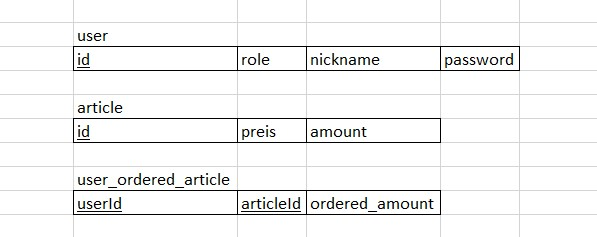
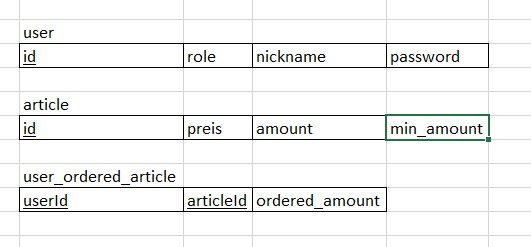
DB description is changed

Changed region(s): [[0.0, 0.0, 1.0, 1.0]]

diff --git a/src/main/java/com/bakhanovich/interviews/shoppingcart/validator/impl/ArticleValidatorImpl.java b/src/main/java/com/bakhanovich/interviews/shoppingcart/validator/impl/ArticleValidatorImpl.java
@@ -110,7 +110,10 @@ public class ArticleValidatorImpl implements ArticleValidator {
     private void checkArtickleIsOutOfStock(Article article, List<String> errorMessages) {
         Optional<Article> articleInSystem = articleDao.findById(article.getId());
         if (articleInSystem.isPresent()) {
-            if(article.getAmount() > articleInSystem.get().getAmount()) {
+            // check two cases: amount to book should be less than the existing amount in stock
+            // and the existing amount should be not less than minAmount to book.
+            if (article.getAmount() > articleInSystem.get().getAmount()
+                    || articleInSystem.get().getMinAmount() > articleInSystem.get().getAmount()) {
                 errorMessages.add("articleId " + article.getId() + ": "
                         + translator.toLocale("ARTICLE_IS_OUT_OF_STOCK"));
             }

diff --git a/DbStructure.md b/DbStructure.md
@@ -6,7 +6,7 @@
 
         user:[{_userId_: integer, role: integer, nickname: String, password: String}]
 
-        article:[{_articleId_: integer, preis: float, amount: integer}]
+        article:[{_articleId_: integer, preis: float, amount: integer, min_amount: integer}]
 
     b. Konvertierung schwacher Entity-Typen
 
@@ -46,9 +46,10 @@ primary key (id)
 
 `CREATE TABLE article
 (
-id     INTEGER NOT NULL AUTO_INCREMENT,
-preis  FLOAT NOT NULL,
-amount INTEGER NOT NULL,
+id         INTEGER NOT NULL AUTO_INCREMENT,
+preis      FLOAT NOT NULL,
+amount     INTEGER NOT NULL,
+min_amount INTEGER NOT NULL,
 primary key (id)
 );`
 
